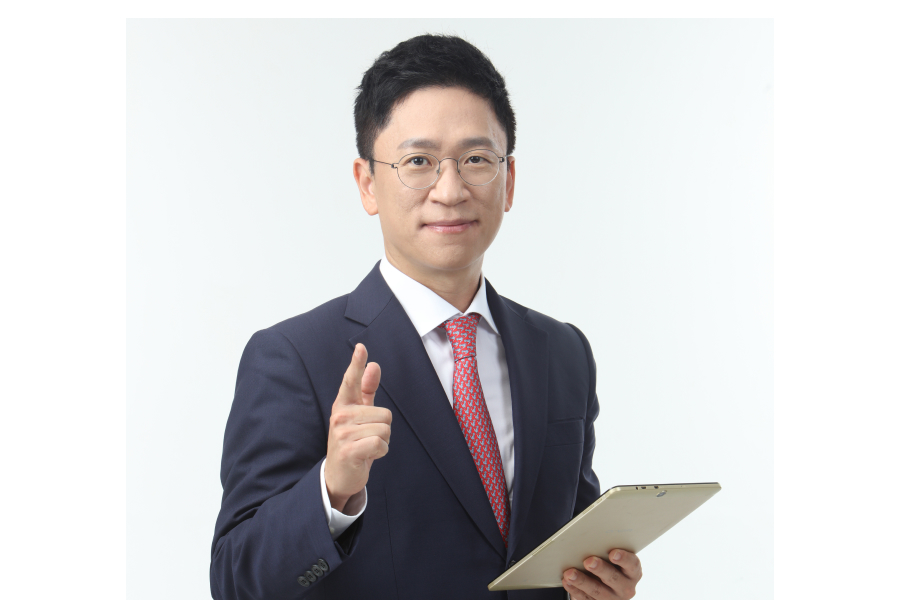
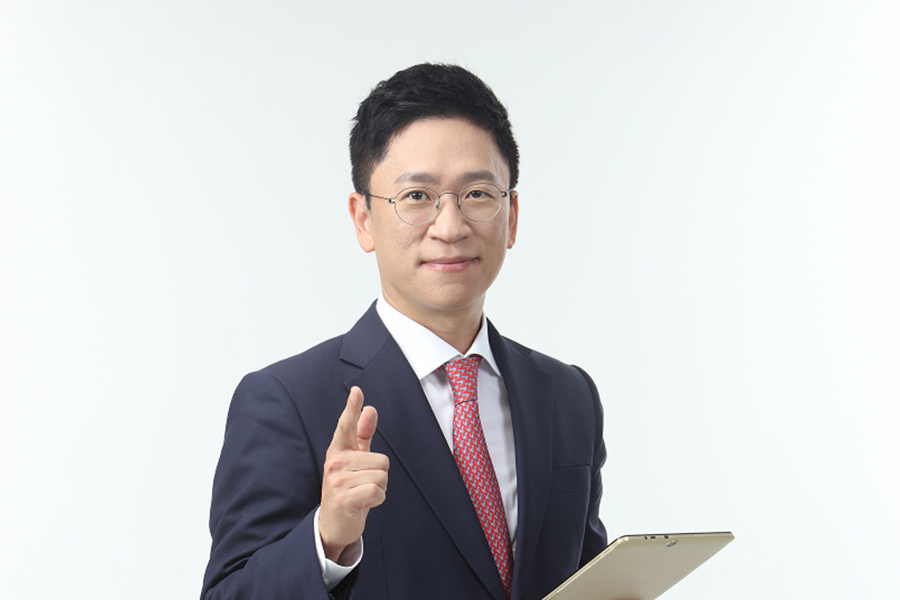
Add social preview meta and refresh speaker images

Changed region(s): [[0.2178, 0.03, 0.84, 1.0], [0.56, 0.0, 0.5911, 0.03]]

diff --git a/index.html b/index.html
@@ -4,6 +4,16 @@
     <meta charset="UTF-8">
     <meta name="viewport" content="width=device-width, initial-scale=1.0">
     <title>이병훈 소장 x 네모닉 워크샵</title>
+    <meta name="description" content="교육전문가 이병훈 소장과 함께하는 우리 아이 공부법 워크샵">
+    <meta property="og:title" content="이병훈 소장 x 네모닉 워크샵">
+    <meta property="og:description" content="교육전문가 이병훈 소장과 함께하는 우리 아이 공부법 워크샵">
+    <meta property="og:type" content="website">
+    <meta property="og:url" content="https://ricky92499.github.io/workshop/">
+    <meta property="og:image" content="https://ricky92499.github.io/workshop/assets/speakers/speaker-lee.jpg">
+    <meta name="twitter:card" content="summary_large_image">
+    <meta name="twitter:title" content="이병훈 소장 x 네모닉 워크샵">
+    <meta name="twitter:description" content="교육전문가 이병훈 소장과 함께하는 우리 아이 공부법 워크샵">
+    <meta name="twitter:image" content="https://ricky92499.github.io/workshop/assets/speakers/speaker-lee.jpg">
 
     <script src="https://cdn.tailwindcss.com"></script>
 
